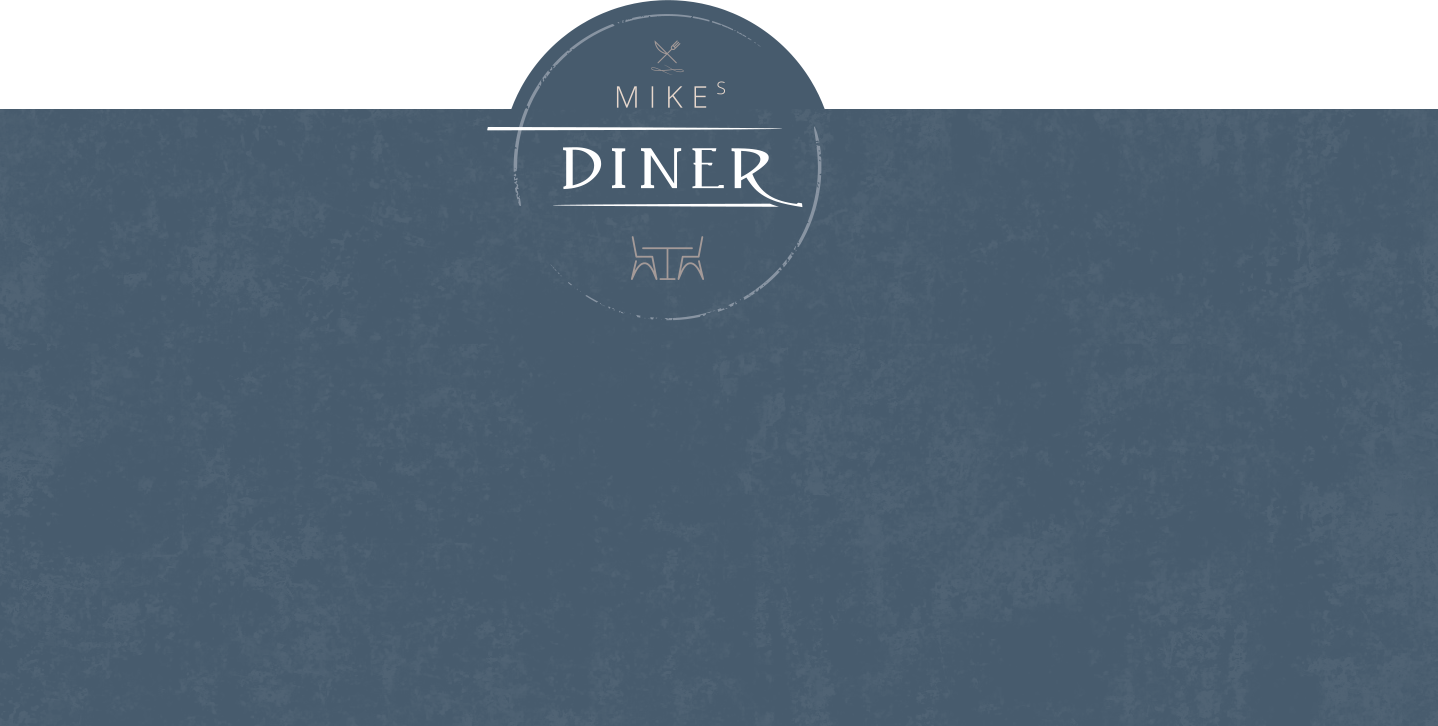
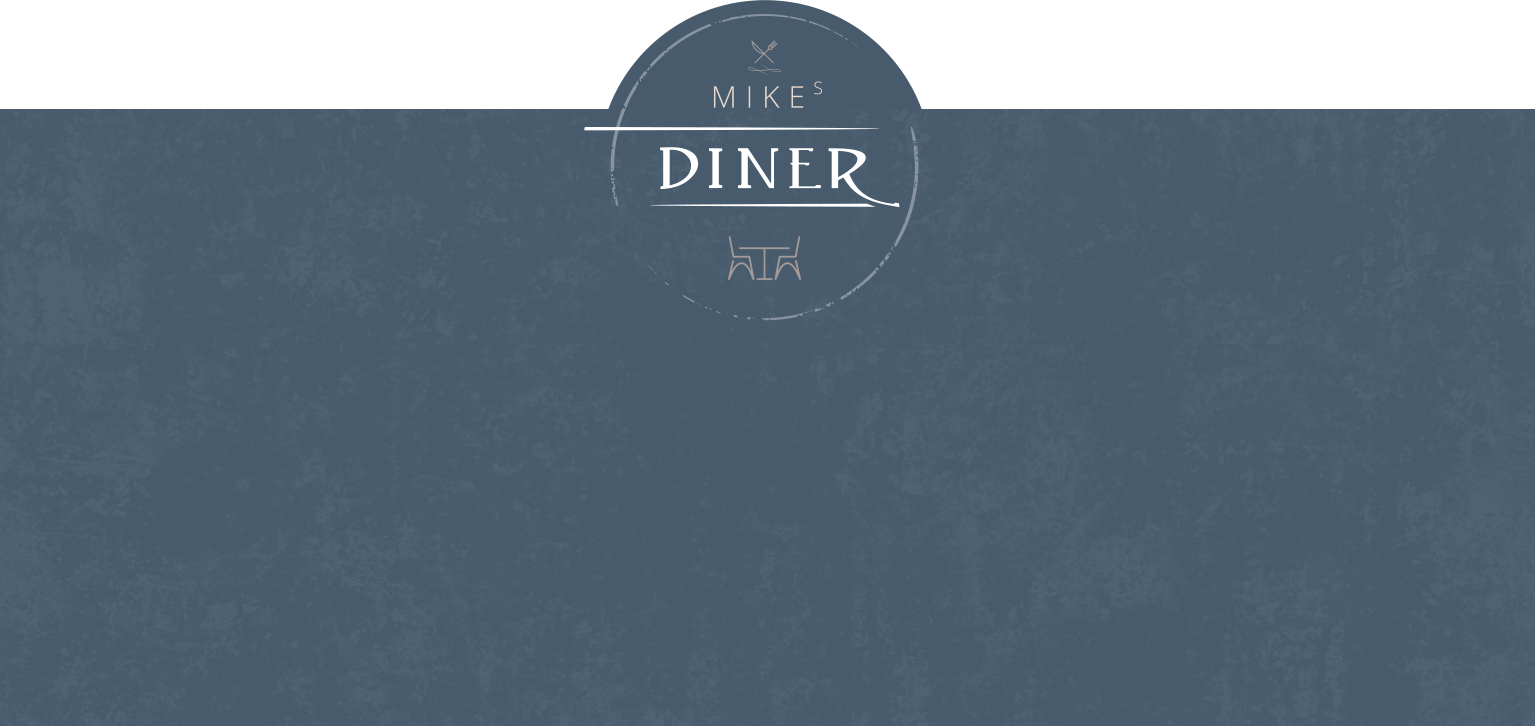
Alt på desktop færdig, mangler responsiveness

Changed region(s): [[0.3366, 0.0, 0.612, 0.303], [0.4284, 0.3333, 0.5508, 0.3939], [0.459, 0.4242, 0.5202, 0.4545]]

diff --git a/style.css b/style.css
@@ -26,20 +26,17 @@ body {
   background-repeat: no-repeat;
   background-size: 100%;
     width: 100%;
-    height: 125px;
+    height: 225px;
    position: relative;
    z-index: 77;
   }
 
  
 .logo {
-    display: block;
+  position: absolute;
   width: 20%;
-    z-index: 99;
-    margin: 0 auto;
-    margin-top: -85px;
-    margin-left: 39.0%;
-    padding-bottom: 100px;
+ top: 1%;
+    left: 40%;
     
    
 }
@@ -258,7 +255,6 @@ hr.streg {
  margin: 30px auto;
 }
 
-
 .lilletekst {
   font-family: "Barlow", sans-serif;
   font-size: 16px;
@@ -266,6 +262,126 @@ hr.streg {
   color: #475b6d;
   font-weight: 400;
   letter-spacing: 1.5px;
+}
+
+
+.slider {
+position: relative;
+text-align: left;
+color: white;
+
+}
+
+.sliderimg {
+width: 100%;
+height: auto;
+ object-fit: contain;
+ margin-bottom: -4px;
+}
+
+.slider-txt {
+position: absolute;
+top: 30%;
+left: 15%;
+
+}
+
+.slider-tlf {
+position: absolute;
+top: 48%;
+left: 45%;
+color: #c5bfbe;
+font-size: 2vw;
+font-family: 'Barlow', sans-serif;
+font-weight: 500;
+letter-spacing: 4px;
+}
+
+.slider-tlf strong {
+
+color: #919da7;
+
+font-family: 'Barlow', sans-serif;
+font-weight: 400;
+letter-spacing: 4px;
+}
+
+
+.slider-table {
+position: absolute;
+bottom: 8%;
+left: 15%;
+max-width: 6%;
+height: auto;
+}
+
+.slider-mike {
+position: absolute;
+top: 30px;
+right: 0%;
+max-width: 50%;
+height: auto;
+}
+
+.lille-h2 {
+color: #c5bfbe;
+font-size: 1.8vw;
+font-family: 'Barlow', sans-serif;
+font-weight: 600;
+}
+
+.større-h2 {
+margin: 1px 0;
+font-size: 3.5vw;
+letter-spacing: 3px;
+
+font-family: 'Barlow', sans-serif;
+font-weight: 400;
+}
+
+.slider-p {
+margin-left: 30px;
+color: #c5bfbe;
+font-size: 1.4vw;
+font-family: 'Barlow', sans-serif;
+font-weight: 300;
+}
+
+.slider-p:before {
+content: '\f0a9';
+font: normal normal normal 16px/1 FontAwesome;
+position: static;
+margin-right: 7px;
+font-size: 8px;
+letter-spacing: 2.4px;
+color: #c5bfbe;
+}
+
+.slider-adresse {
+  position: absolute;
+  display: inline-flex;
+  right: 25%;
+  bottom: 15%;
+  width: 30%;
+  
+}
+
+.icon-storline {
+  display:block;
+margin: 30px 10px 10px 30px;
+  cursor: pointer;
+  background-image: url(billeder/stor-line.png);
+  height: 70px;
+}
+
+.adresse {
+  display:block;
+letter-spacing: 2px;
+  color: #c5bfbe;
+  font-size: 1.1vw;
+  font-family: 'Barlow', sans-serif;
+  font-weight: 300;
+ 
 }
 
 
@@ -289,13 +405,11 @@ hr.streg {
 
  
 .logo {
-    display: block;
+    position: absolute;
   width: 17%;
-    z-index: 99;
-    margin: 0 auto;
-    margin-top: -30px;
-    padding-left: 70px;
-    padding-bottom: 1px;
+ top: 0.7%;
+    left: 41%;
+   
 }
 
 
@@ -472,7 +586,7 @@ hr.streg {
     display: block;
     margin: 0 auto;
     margin-right: 15%;
-    margin-top: -60px;
+    margin-top: 230px;
     width: 12%;
     padding-bottom: 0px;
 }
@@ -488,7 +602,7 @@ hr.streg {
   /* Cirkel billeder på siden - slut */
 
 #start {
-    margin-top: -80px;
+    margin-top: -90px;
 }
 
 #burger {
@@ -527,7 +641,123 @@ hr.streg {
 }
 
 
+.slider {
+  position: relative;
+text-align: left;
+color: white;
+
+}
+
+.sliderimg {
+ width: 100%;
+height: auto;
+   object-fit: contain;
+   margin-bottom: -4px;
+}
+
+.slider-txt {
+  position: absolute;
+  top: 30%;
+  left: 15%;
+ 
+}
+
+.slider-tlf {
+  position: absolute;
+  top: 48%;
+  left: 45%;
+  color: #c5bfbe;
+  font-size: 2vw;
+  font-family: 'Barlow', sans-serif;
+  font-weight: 500;
+  letter-spacing: 4px;
+}
+
+.slider-tlf strong {
+
+  color: #919da7;
+ 
+  font-family: 'Barlow', sans-serif;
+  font-weight: 400;
+  letter-spacing: 4px;
+}
 
 
+.slider-table {
+  position: absolute;
+  bottom: 10%;
+  left: 15%;
+ max-width: 6%;
+ height: auto;
+}
+
+.slider-mike {
+  position: absolute;
+  top: 80px;
+  right: 0%;
+ max-width: 50%;
+ height: auto;
+}
+
+.lille-h2 {
+  color: #c5bfbe;
+  font-size: 1.4vw;
+  font-family: 'Barlow', sans-serif;
+  font-weight: 600;
+}
+
+.større-h2 {
+  margin: 1px 0;
+  font-size: 3.5vw;
+  letter-spacing: 3px;
+  
+  font-family: 'Barlow', sans-serif;
+  font-weight: 400;
+}
+
+.slider-p {
+  margin-left: 30px;
+  color: #c5bfbe;
+  font-size: 1.1vw;
+  font-family: 'Barlow', sans-serif;
+  font-weight: 300;
+}
+
+.slider-p:before {
+  content: '\f0a9';
+  font: normal normal normal 16px/1 FontAwesome;
+  position: static;
+  margin-right: 7px;
+  font-size: 16px;
+  letter-spacing: 2.4px;
+  color: #c5bfbe;
+}
+
+.slider-adresse {
+  position: absolute;
+  display: inline-flex;
+  right: 25%;
+  bottom: 15%;
+  width: 30%;
+  
+}
+
+.icon-storline {
+  display:block;
+margin: 30px 10px 10px 30px;
+  cursor: pointer;
+  background-image: url(billeder/stor-line.png);
+  height: 70px;
+}
+
+.adresse {
+  display:block;
+letter-spacing: 2px;
+  color: #c5bfbe;
+  font-size: 1.1vw;
+  font-family: 'Barlow', sans-serif;
+  font-weight: 300;
+ 
+}
 
   }

diff --git a/index.html b/index.html
@@ -9,7 +9,8 @@
   <meta name="description" content="Velkommen til Mike's Diner! Mad som hjertet begærer. Mike fremtryller alt fra pølser, burgers til pizzaer. 
   Mad ud af huset eller Stay-in i vores hyggelige atmosfære. Åbent alle dage fra 8-20.">
   <title>Mike's Diner | Få appetitten stillet med lækker mad</title>
-  <link href="https://fonts.googleapis.com/css?family=Barlow:300,400,500&display=swap" rel="stylesheet">
+  <link href="https://fonts.googleapis.com/css?family=Barlow:300,400,500,600&display=swap" rel="stylesheet">
+  <script src="https://kit.fontawesome.com/1cb7c201ad.js" crossorigin="anonymous"></script>
 </head>
 
 <body>
@@ -423,7 +424,33 @@
     <p class="MENU-pris">35,00</p>
 </div>
 
+<div class="slider">
+  <div class="slider-txt">
+    <h2 class="lille-h2">MINE KOKKERERER <br>TIL ENHVER LEJLIGHED:</h2>
+    <p class="slider-p">Firmafester</p>
+    <p class="slider-p">Møder</p>
+    <p class="slider-p">Fødselsdage</p>
+    <p class="slider-p">Konfirmationer</p>
+    <p class="slider-p">Julefrokoster</p>
+    <p class="slider-p">Receptioner</p>
+  </div>
 
+<p class="slider-tlf">Tlf. <strong>+45</strong> 7030 7600</p>
+<div class="slider-adresse">
+
+       
+  
+  <p class="adresse">Bredgadecentret <br>Bredagde 67 <br>7600 Struer</p>
+  <span class="icon icon-storline"></span>
+  <p class="adresse"><strong>Åbningstider:</strong> <br>Man-fre: 08.00 - 20.00 <br>Weekend: 11.00 - 20.00</p>
+
+</div>
+ <img class="slider-table" src="billeder/table.png" alt="">
+<img class="slider-mike" src="billeder/Mike.png" draggable="false" alt="">
+  <img class="sliderimg" src="billeder/footer.png" alt="" draggable="false">
+
+
+</div>
 </body>
 
 
